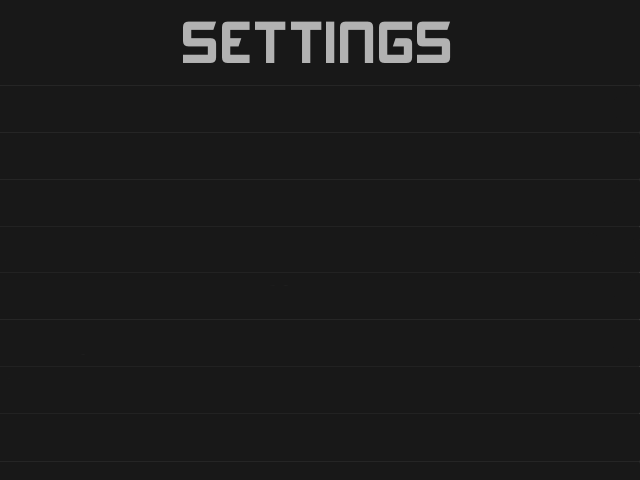
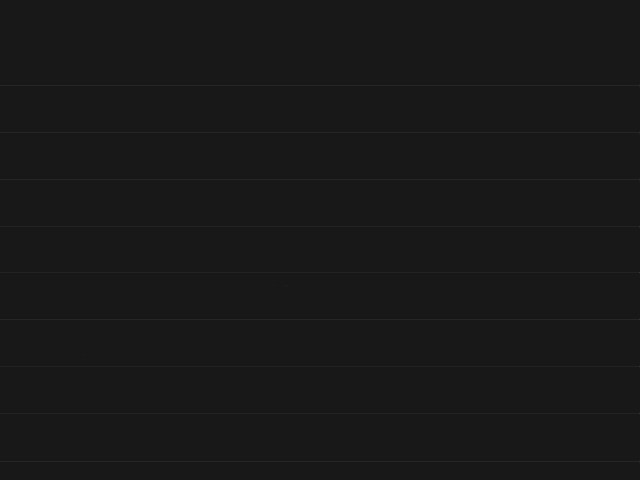
* Added rom settings screen * Rename config.ini sections to GLOBAL, SYSTEM, and GAME * Made system and rom settings dynamic based on the config.ini

Changed region(s): [[0.2812, 0.0312, 0.7188, 0.1562]]

diff --git a/src/RenderComponent.cpp b/src/RenderComponent.cpp
@@ -274,12 +274,11 @@ void RenderComponent::drawRomList(const std::string& folderName, const std::vect
     renderText(folderName, theme.getIntValue("GENERAL.text1_x"), theme.getIntValue("GENERAL.text1_y"), {255, 255, 255}, theme.getIntValue("GENERAL.text1_alignment")); 
 }
 
-void RenderComponent::drawSystemSettings(const std::string& folderName, const std::vector<SettingsMenuItem>& settingsData, int currentSettingIndex) {
+void RenderComponent::drawSystemSettings(int currentSettingIndex) {
 
     std::string backgroundPath = cfg.get("GLOBAL.homePath") + ".simplemenu/resources/settings.png";
-
     std::string settingsFontPath = cfg.get("GLOBAL.homePath") + ".simplemenu/resources/Akrobat-Bold.ttf";
-    int settingsFontSize = 32;
+    int settingsFontSize = 32;//FIXME: size needs to be dynamic
 
     TTF_Font* setttingsFont = TTF_OpenFont(settingsFontPath.c_str(), settingsFontSize);
 
@@ -288,25 +287,35 @@ void RenderComponent::drawSystemSettings(const std::string& folderName, const st
     }
     SDL_BlitSurface(background, NULL, screen, NULL);
 
+    std::string titleFontPath = cfg.get("GLOBAL.homePath") + ".simplemenu/resources/akashi.ttf";
+    int titleFontSize = 64;//FIXME: size needs to be dynamic
+
+    TTF_Font* titleFont = TTF_OpenFont(settingsFontPath.c_str(), titleFontSize);
+
+    SDL_Surface* titleSurface = TTF_RenderText_Blended(titleFont, "SETTINGS", {255,255,255});
+    SDL_Rect titlePos = {screenWidth / 2 - titleSurface->w /2 , 5, 0,0};
+    SDL_BlitSurface(titleSurface, nullptr, screen, &titlePos);
+
     // Set rom list starting position and item separation
+    // FIXME: these values need to be dynamic depending on the resolution
     int startX = 10;
     int startY = 92;
     int stepY = 46;
     int itemsPerPage = 8;
 
     // Calculate number of pages FIXME: move that to the constructor
-    int total_pages = (settingsData.size() + itemsPerPage - 1)/ itemsPerPage;
+    int total_pages = (cfg.getSectionSize("SYSTEM") + itemsPerPage - 1)/ itemsPerPage;
 
     int currentPage = currentSettingIndex / itemsPerPage;
     int startIndex = currentPage * itemsPerPage;
-    int endIndex = std::min<int>(startIndex + itemsPerPage, settingsData.size());
+    int endIndex = std::min<int>(startIndex + itemsPerPage, cfg.getSectionSize("SYSTEM") );//settingsData.size());
 
     // for (int i = 0; i < theme.getIntValue("GENERAL.items"); i++) {
     for (int i = startIndex; i < endIndex; i++) {
         SDL_Color color = (i == currentSettingIndex) ? theme.getColor("DEFAULT.selected_item_font_color"):theme.getColor("DEFAULT.items_font_color");
 
         // Determine text width
-        SDL_Surface* textSurface = TTF_RenderText_Blended(setttingsFont, settingsData[i].title.c_str(), color);
+        SDL_Surface* textSurface = TTF_RenderText_Blended(setttingsFont, cfg.getKeyByIndex("SYSTEM", i).c_str(), color);
         int titleWidth = textSurface->w;
 
         int clipWidth = (int)screenWidth*0.8;
@@ -327,16 +336,91 @@ void RenderComponent::drawSystemSettings(const std::string& folderName, const st
         renderText(pageInfo, x, y, {255, 255, 255}, theme.getIntValue("GENERAL.text2_alignment"));
 
        // Render the value to the right of the title
-        SDL_Surface* valueSurface = TTF_RenderText_Blended(font, cfg.get(settingsData[i].id).c_str(), color);
+        SDL_Surface* valueSurface = TTF_RenderText_Blended(font, cfg.getValueByIndex("SYSTEM", i).c_str(), color);
 
         // Position the value surface to the right of the title
         SDL_Rect valueDestRect = {static_cast<Sint16>(screenWidth - valueSurface->w - 10), startY, 0, 0};
         SDL_BlitSurface(valueSurface, nullptr, screen, &valueDestRect);
         SDL_FreeSurface(valueSurface);
 
+        startY += stepY;
+    }
+    TTF_CloseFont(titleFont);
+    TTF_CloseFont(setttingsFont);
+}
+
+void RenderComponent::drawRomSettings(int currentSettingIndex) {
+    std::string backgroundPath = cfg.get("GLOBAL.homePath") + ".simplemenu/resources/settings.png";
+    std::string settingsFontPath = cfg.get("GLOBAL.homePath") + ".simplemenu/resources/Akrobat-Bold.ttf";
+    int settingsFontSize = 32; //FIXME: size needs to be dynamic
+
+    TTF_Font* setttingsFont = TTF_OpenFont(settingsFontPath.c_str(), settingsFontSize);
+
+	if (background == nullptr || lastRom == -1) {
+        setBackground(backgroundPath);
+    }
+    SDL_BlitSurface(background, NULL, screen, NULL);
+
+    std::string titleFontPath = cfg.get("GLOBAL.homePath") + ".simplemenu/resources/akashi.ttf";
+    int titleFontSize = 64; //FIXME: size needs to be dynamic
+
+    TTF_Font* titleFont = TTF_OpenFont(settingsFontPath.c_str(), titleFontSize);
+
+    SDL_Surface* titleSurface = TTF_RenderText_Blended(titleFont, "ROM SETTINGS", {255,255,255});
+    SDL_Rect titlePos = {screenWidth / 2 - titleSurface->w /2 , 5, 0,0};
+    SDL_BlitSurface(titleSurface, nullptr, screen, &titlePos);
+
+
+    // Set rom list starting position and item separation
+    // FIXME: these values need to be dynamic depending on the resolution
+    int startX = 10;
+    int startY = 92;
+    int stepY = 46;
+    int itemsPerPage = 8;
+
+    // Calculate number of pages FIXME: move that to the constructor
+    int total_pages = (cfg.getSectionSize("GAME") + itemsPerPage - 1)/ itemsPerPage;
+
+    int currentPage = currentSettingIndex / itemsPerPage;
+    int startIndex = currentPage * itemsPerPage;
+    int endIndex = std::min<int>(startIndex + itemsPerPage, cfg.getSectionSize("GAME") );//settingsData.size());
+
+    // for (int i = 0; i < theme.getIntValue("GENERAL.items"); i++) {
+    for (int i = startIndex; i < endIndex; i++) {
+        SDL_Color color = (i == currentSettingIndex) ? theme.getColor("DEFAULT.selected_item_font_color"):theme.getColor("DEFAULT.items_font_color");
+
+        // Determine text width
+        SDL_Surface* textSurface = TTF_RenderText_Blended(setttingsFont, cfg.getKeyByIndex("GAME", i).c_str(), color);
+        int titleWidth = textSurface->w;
+
+        int clipWidth = (int)screenWidth*0.8;
+
+        SDL_Rect clipRect = {startX, startY, clipWidth, static_cast<Uint16>(textSurface->h)}; // Ensure text doesn't spill over the intended area
+
+        SDL_SetClipRect(screen, &clipRect);
+        SDL_BlitSurface(textSurface, nullptr, screen, &clipRect);
+
+        SDL_SetClipRect(screen, NULL);  // Reset the clip rect
+        SDL_FreeSurface(textSurface);
+
+        // Display pagination page number / total_pages at the bottom
+        std::string pageInfo = std::to_string(currentPage + 1) + " / " + std::to_string(total_pages);
+        int x = theme.getIntValue("GENERAL.text2_x");
+        int y = theme.getIntValue("GENERAL.text2_y");
+
+        renderText(pageInfo, x, y, {255, 255, 255}, theme.getIntValue("GENERAL.text2_alignment"));
+
+       // Render the value to the right of the title
+        SDL_Surface* valueSurface = TTF_RenderText_Blended(font, cfg.getValueByIndex("GAME", i).c_str(), color);
+
+        // Position the value surface to the right of the title
+        SDL_Rect valueDestRect = {static_cast<Sint16>(screenWidth - valueSurface->w - 10), startY, 0, 0};
+        SDL_BlitSurface(valueSurface, nullptr, screen, &valueDestRect);
+        SDL_FreeSurface(valueSurface);
 
         startY += stepY;
     }
+    TTF_CloseFont(titleFont);
     TTF_CloseFont(setttingsFont);
 }
 

diff --git a/src/Application.cpp b/src/Application.cpp
@@ -76,9 +76,13 @@ void Application::drawCurrentState() {
         }
         case SYSTEM_SETTINGS:
         {
-            std::vector<SettingsMenuItem> settings = loadMenuFromJSON("/userdata/system/simplermenu_plus/systemMenu.json");
-            renderComponent.drawSystemSettings(menu.getSections()[currentSectionIndex].getFolders()[currentFolderIndex].getTitle(), settings, currentSettingsIndex);
+            renderComponent.drawSystemSettings(currentSettingsIndex);
             break;
+        }
+        case ROM_SETTINGS:
+        {
+            renderComponent.drawRomSettings(currentRomSettingsIndex);
+            break;            
         }
     }
 }
@@ -131,7 +135,7 @@ void Application::handleCommand(ControlMap cmd) {
                 std::cout << "execute rom" << std::endl;
                 launchRom();
                 renderComponent.resetValues();
-            } else if (cmd == ROM_SETTINGS) {
+            } else if (cmd == CMD_ROM_SETTINGS) {
                 currentMenuLevel = ROM_SETTINGS;
                 renderComponent.resetValues();
             }
@@ -151,7 +155,13 @@ void Application::handleCommand(ControlMap cmd) {
             if (cmd == CMD_BACK) { // ESC
                 currentMenuLevel = MENU_ROM;
                 renderComponent.resetValues();
-            }
+            } else if (cmd == CMD_UP) { // UP
+                if (currentRomSettingsIndex > 0) currentRomSettingsIndex--;
+                else currentRomSettingsIndex = cfg.getSectionSize("GAME") - 2;
+            } else if (cmd == CMD_DOWN) { // DOWN
+                currentRomSettingsIndex = (currentRomSettingsIndex + 1) % (cfg.getSectionSize("GAME") -1);
+            } 
+            break;
     }
 
     if (cmd == CMD_SYS_SETTINGS) {

diff --git a/include/Configuration.h b/include/Configuration.h
@@ -54,4 +54,33 @@ public:
     int getSectionSize(std::string section) {
         return mainPt.get_child(section).size();
     }
+
+    boost::property_tree::ptree getSection(const std::string& section) {
+        return mainPt.get_child(section);
+    }
+
+    std::string getKeyByIndex(const std::string& sectionName, std::size_t index) {
+        auto section = mainPt.get_child(sectionName);
+        std::size_t currentIndex = 0;
+        for (const auto& kv : section) {
+            if (currentIndex == index) {
+                return kv.first;
+            }
+            ++currentIndex;
+        }
+        throw std::out_of_range("Index out of range");
+    }
+
+    std::string getValueByIndex(const std::string& sectionName, std::size_t index) {
+        auto section = mainPt.get_child(sectionName);
+        std::size_t currentIndex = 0;
+        for (const auto& kv : section) {
+            if (currentIndex == index) {
+                return kv.second.get_value<std::string>();
+            }
+            ++currentIndex;
+        }
+        throw std::out_of_range("Index out of range");
+    }
+
 };

diff --git a/include/RenderComponent.h b/include/RenderComponent.h
@@ -191,8 +191,8 @@ public:
     void drawSection(const std::string& name, int numSystems);
     void drawFolder(const std::string& name, const std::string& path, int numRoms);
     void drawRomList(const std::string& folderName, const std::vector<std::pair<std::string, std::string>>& romData, int currentRomIndex);
-    void drawSystemSettings(const std::string& folderName, const std::vector<SettingsMenuItem>& romData, int currentSettingIndex);
-    void drawRomSettings();
+    void drawSystemSettings(int currentSettingIndex);
+    void drawRomSettings(int currentSettingIndex);
     void loadThumbnail(const std::string& romPath);
     void printFPS(int fps);
     void loadAliases();

diff --git a/include/Application.h b/include/Application.h
@@ -57,6 +57,7 @@ private:
     int currentFolderIndex = 0;
     int currentRomIndex = 0;
     int currentSettingsIndex = 0;
+    int currentRomSettingsIndex = 0;
 
     bool isButtonHeld;
     SDL_Event lastHeldEvent;
